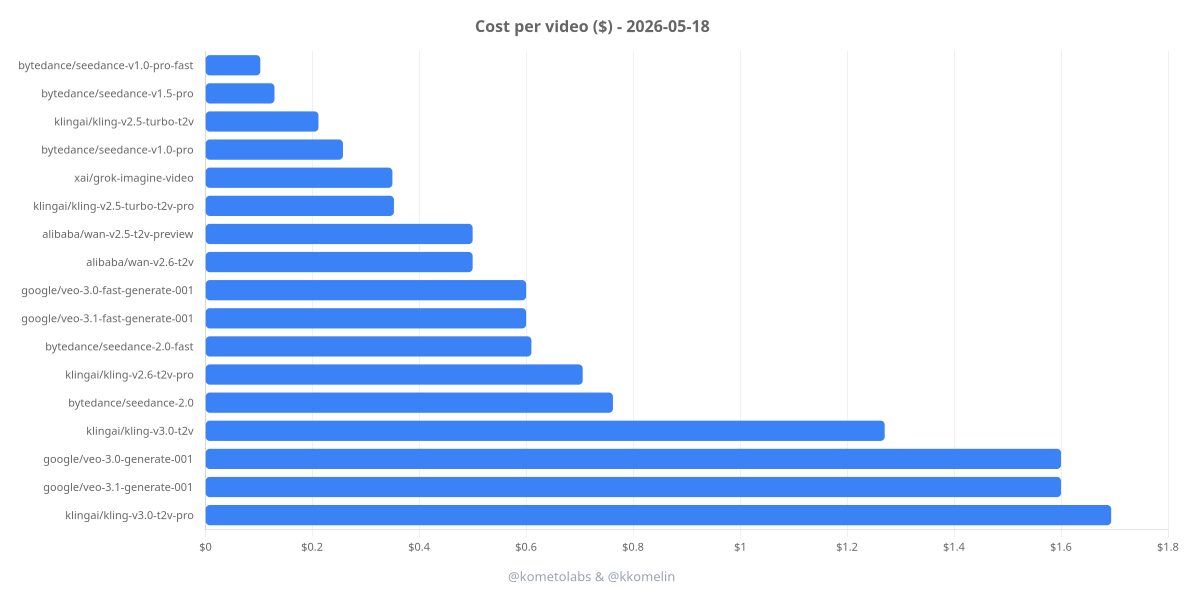
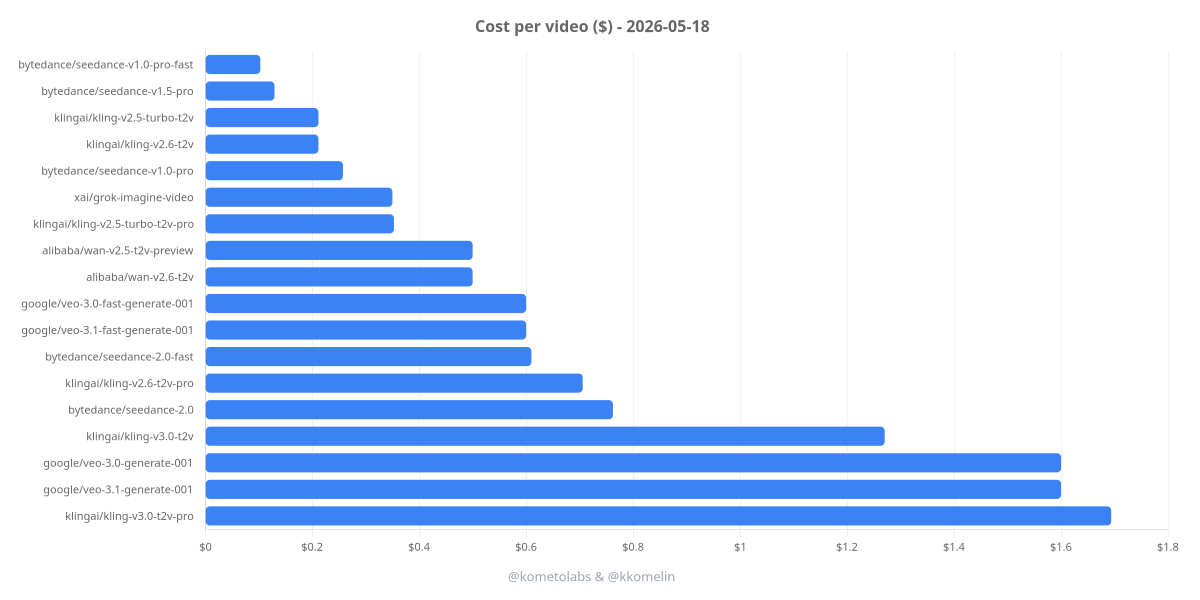
Rename Latency to Generation time in report and charts
Internal field names (wallLatencyMs) stay as-is - this is purely a
display rename. Includes refreshed benchmark outputs.

Changed region(s): [[0.0, 0.12, 0.925, 0.87], [0.0308, 0.81, 0.1542, 0.87], [0.0, 0.09, 0.1542, 0.12]]

diff --git a/src/logger.ts b/src/logger.ts
@@ -93,13 +93,13 @@ export async function writeReport(
     ``,
     ...headerLines,
     ``,
-    `| Model | Cost | Latency | Generated | Video |`,
-    `| ----- | ---- | ------- | --------- | ----- |`,
+    `| Model | Cost | Generation time | Generated | Video |`,
+    `| ----- | ---- | --------------- | --------- | ----- |`,
     ...rows,
     ``,
     `**Total spent:** ${totalCostStr}`,
     ``,
-    `_Latency is wall time per video, measured by the benchmark script._${br}`,
+    `_Generation time is wall time per video, measured by the benchmark script._${br}`,
     `_Cost is returned by the gateway, so it should be accurate._${br}`,
     `_Generated is the date each row's video was produced - rows may be from different runs (cache hits aren't re-generated)._${br}`,
     `_Click "video" to download the \`.mp4\`. GitHub does not play repo-local videos inline._`,

diff --git a/src/phases/generateCharts.ts b/src/phases/generateCharts.ts
@@ -80,7 +80,7 @@ export async function generateCharts(opts: ChartOptions): Promise<string[]> {
     {
       labels: byLatency.map((d) => d.model),
       values: byLatency.map((d) => d.latency),
-      label: 'Latency (seconds)',
+      label: 'Generation time (seconds)',
       unit: '',
       color: '#10b981',
       filename: 'latency.png',

diff --git a/README.md b/README.md
@@ -1,6 +1,6 @@
 # AI Video Generation Cost Analysis
 
-Benchmark text-to-video models behind Vercel AI Gateway, save the generated videos, and produce a Markdown report with cost and latency per model.
+Benchmark text-to-video models behind Vercel AI Gateway, save the generated videos, and produce a Markdown report with cost and generation time per model.
 
 ## Results
 
@@ -8,15 +8,15 @@ Latest run - see the full table with per-model videos in [results/report.md](./r
 
 [![Cost per video](./results/videos/charts/cost.png)](./results/videos/charts/cost.png)
 
-[![Latency](./results/videos/charts/latency.png)](./results/videos/charts/latency.png)
+[![Generation time](./results/videos/charts/latency.png)](./results/videos/charts/latency.png)
 
 ## What It Does
 
 - Runs multiple text-to-video models through a single CLI.
 - Uses `experimental_generateVideo` from the Vercel AI SDK (v6).
 - Saves generated `.mp4` files to `./results/videos`.
-- Renders cost and latency bar charts to `./results/videos/charts`.
-- Writes a Markdown report to `./results/report.md` with a comparison table (cost, latency, generation date, video link).
+- Renders cost and generation time bar charts to `./results/videos/charts`.
+- Writes a Markdown report to `./results/report.md` with a comparison table (cost, generation time, generation date, video link).
 - Caches per-model results in `./results/cache.json` so reruns skip already-generated models - add a new model without paying to regenerate the rest.
 - Tracks provider-reported cost when available.
 
@@ -110,12 +110,12 @@ The CLI prints progress for each model and runs three phases:
 2. **Report** - writes `./results/report.md` with a comparison table containing:
    - model ID
    - cost (gateway-reported when available)
-   - latency (wall-clock seconds, measured by the client)
+   - generation time (wall-clock seconds, measured by the client)
    - generation date (per-row `YYYY-MM-DD` - rows can come from different runs)
    - link to the saved `.mp4`
 
    The report includes every model with a cache entry, even if it's currently `enabled: false` - disabling a model skips its regeneration but keeps it in the comparison.
-3. **Charts** - renders cost and latency bar charts to `./results/videos/charts/{cost.png, latency.png}`.
+3. **Charts** - renders cost and generation time bar charts to `./results/videos/charts/{cost.png, latency.png}`.
 
 ## Notes
 

diff --git a/results/report.md b/results/report.md
@@ -1,13 +1,13 @@
 # AI Video Model Benchmark
 
-**Last updated:** 2026-05-18T15:18:12.143Z  
+**Last updated:** 2026-05-18T15:28:46.048Z  
 **Prompt:** A golden retriever puppy chasing a butterfly through a sunflower field at golden hour, cinematic shallow depth of field, soft warm light, slow camera dolly forward.  
 **Duration:** 4-5s  
 **Resolution:** 1280x720, 720p  
 **Aspect ratio:** 16:9
 
-| Model | Cost | Latency | Generated | Video |
-| ----- | ---- | ------- | --------- | ----- |
+| Model | Cost | Generation time | Generated | Video |
+| ----- | ---- | --------------- | --------- | ----- |
 | `alibaba/wan-v2.5-t2v-preview` | $0.5 | 115.3s | 2026-05-18 | [video](./videos/alibaba-wan-v2.5-t2v-preview.mp4) |
 | `alibaba/wan-v2.6-t2v` | $0.5 | 53.4s | 2026-05-17 | [video](./videos/alibaba-wan-v2.6-t2v.mp4) |
 | `bytedance/seedance-v1.0-lite-t2v` | - | FAILED | 2026-05-18 | - |
@@ -22,15 +22,15 @@
 | `google/veo-3.1-fast-generate-001` | $0.6 | 65.6s | 2026-05-18 | [video](./videos/google-veo-3.1-fast-generate-001.mp4) |
 | `klingai/kling-v2.5-turbo-t2v` | $0.211722 | 47.8s | 2026-05-18 | [video](./videos/klingai-kling-v2.5-turbo-t2v.mp4) |
 | `klingai/kling-v2.5-turbo-t2v-pro` | $0.35287 | 81.5s | 2026-05-18 | [video](./videos/klingai-kling-v2.5-turbo-t2v-pro.mp4) |
-| `klingai/kling-v2.6-t2v` | - | FAILED | 2026-05-18 | - |
+| `klingai/kling-v2.6-t2v` | $0.211722 | 57.0s | 2026-05-18 | [video](./videos/klingai-kling-v2.6-t2v.mp4) |
 | `klingai/kling-v2.6-t2v-pro` | $0.70574 | 90.9s | 2026-05-18 | [video](./videos/klingai-kling-v2.6-t2v-pro.mp4) |
 | `klingai/kling-v3.0-t2v` | $1.270332 | 41.6s | 2026-05-17 | [video](./videos/klingai-kling-v3.0-t2v.mp4) |
 | `klingai/kling-v3.0-t2v-pro` | $1.693776 | 83.0s | 2026-05-18 | [video](./videos/klingai-kling-v3.0-t2v-pro.mp4) |
 | `xai/grok-imagine-video` | $0.35 | 49.6s | 2026-05-17 | [video](./videos/xai-grok-imagine-video.mp4) |
 
-**Total spent:** $11.84658
+**Total spent:** $12.058302
 
-_Latency is wall time per video, measured by the benchmark script._  
+_Generation time is wall time per video, measured by the benchmark script._  
 _Cost is returned by the gateway, so it should be accurate._  
 _Generated is the date each row's video was produced - rows may be from different runs (cache hits aren't re-generated)._  
 _Click "video" to download the `.mp4`. GitHub does not play repo-local videos inline._